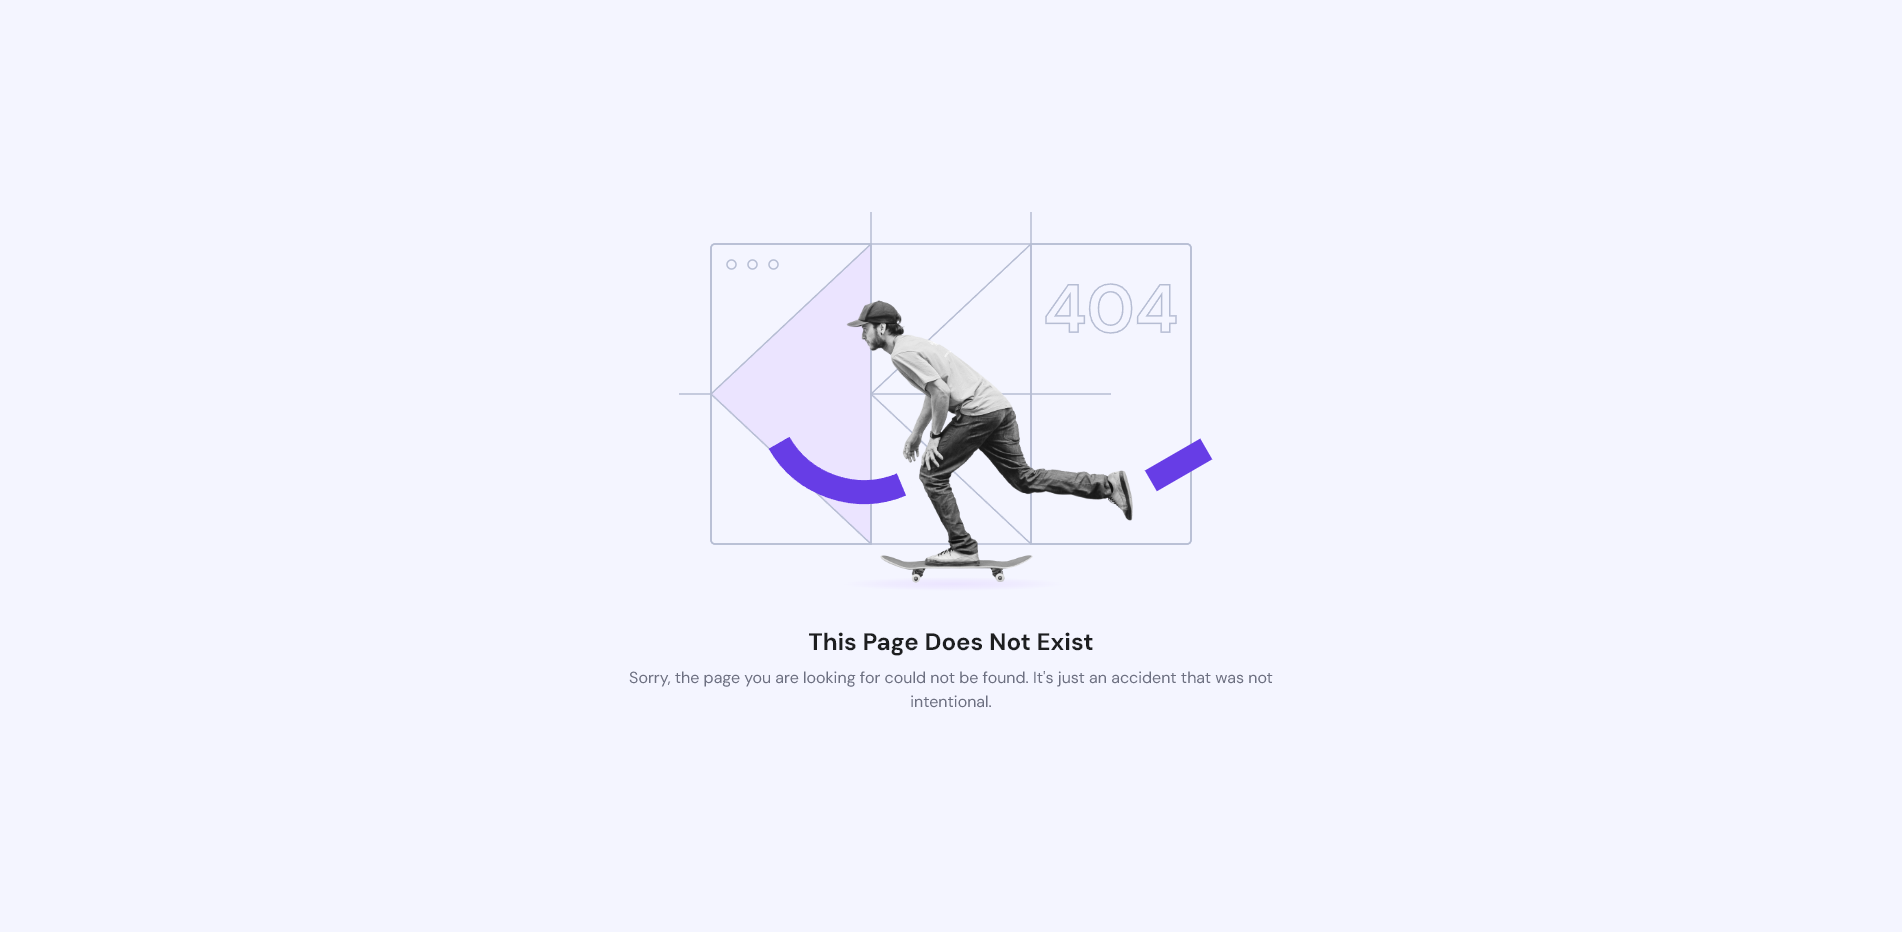
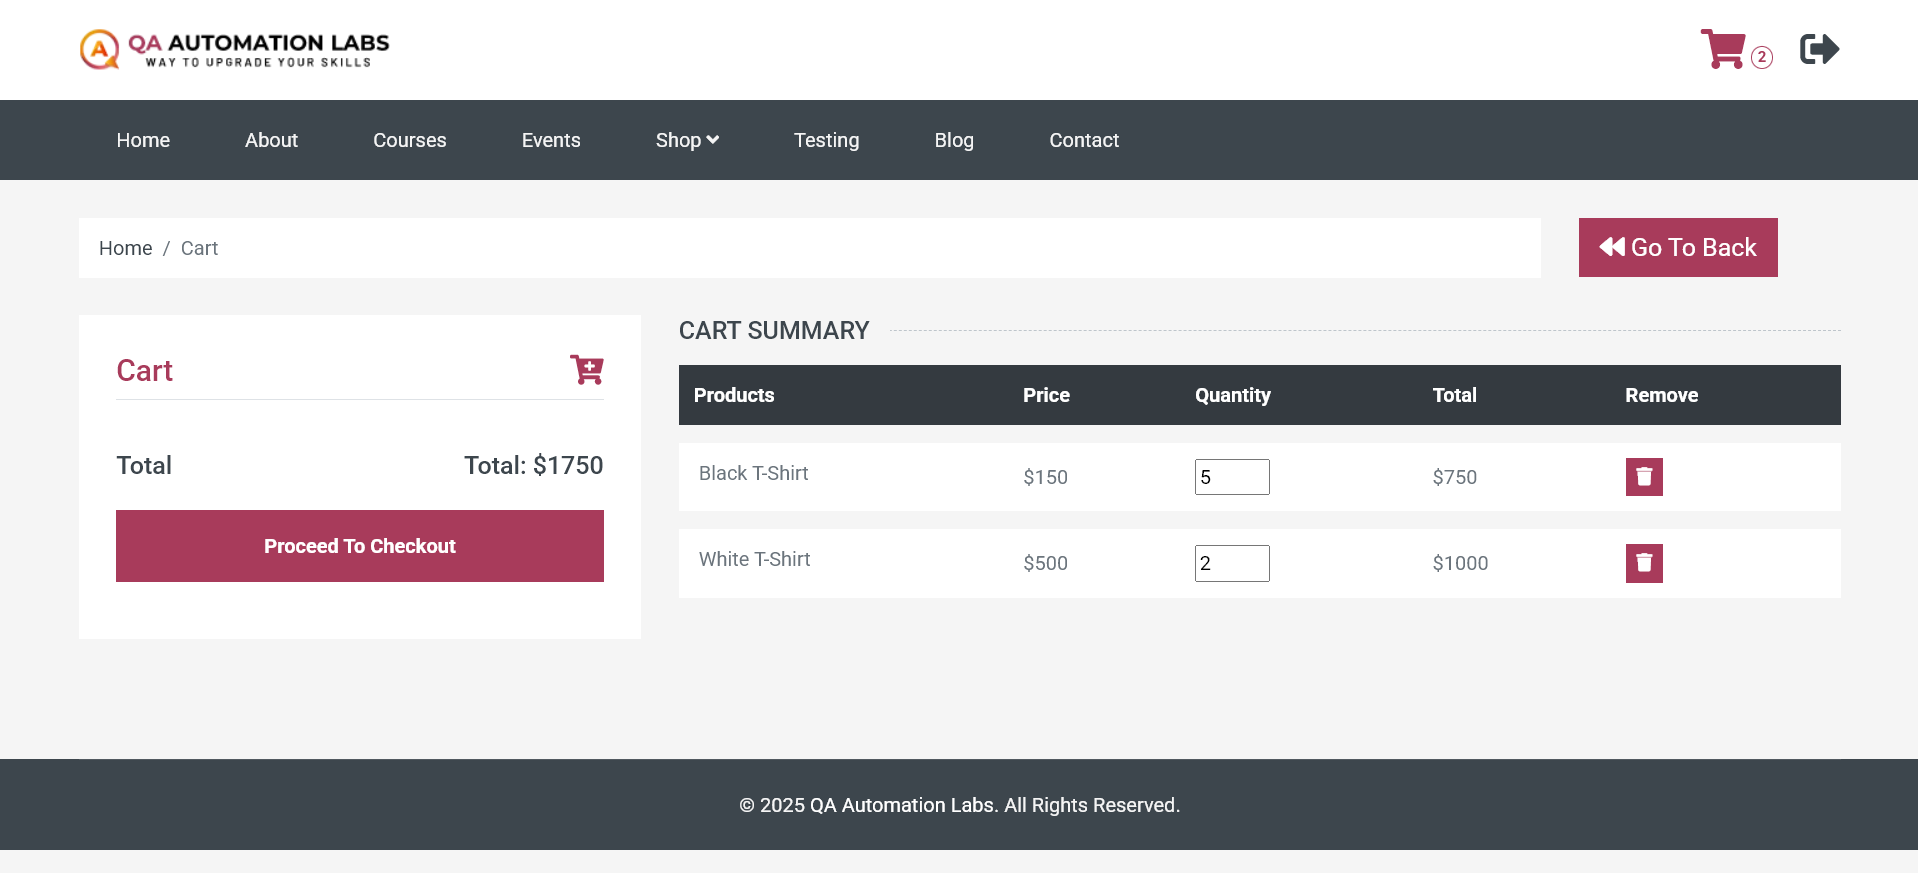
Optimize screenshot hook to prevent instantiating driver for API tests and update manual presentation screenshots

diff --git a/conftest.py b/conftest.py
@@ -37,7 +37,13 @@ def pytest_runtest_makereport(item, call):
 
     if rep.when == "call":
         try:
-            web_driver = item._request.getfixturevalue("driver")
+            web_driver = None
+            if hasattr(item._request, "_fixture_defs") and "driver" in item._request._fixture_defs:
+                fixture_def = item._request._fixture_defs["driver"]
+                cached = getattr(fixture_def, "cached_result", None)
+                if cached is not None and isinstance(cached, tuple) and len(cached) > 0:
+                    web_driver = cached[0]
+
             if web_driver:
                 screenshots_dir = os.path.join(os.path.dirname(__file__), "screenshots")
                 os.makedirs(screenshots_dir, exist_ok=True)
